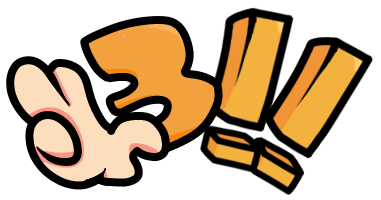
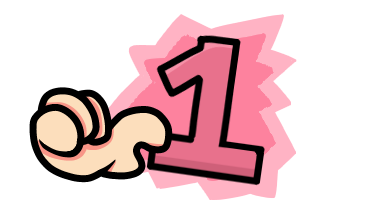
add rest of intro assets
add ratings
add libraries.xml
edit readme.md

diff --git a/readme.md b/readme.md
@@ -7,3 +7,6 @@ a rhythm game engine developed by me, Char for this game, "Char's Adventure" (Wo
 > Any assets used for it should go under `assets/cre/` for instance to add an image via the images folder put it in `assets/cre/images/` in fact, there are already included assets with this repo that is for you to reference.
 
 > This is essentially a self-contained source folder you can build by simply dropping its folder into `Your/HaxeFlixel/Project/Path/Here/source/cre`!
+
+
+Refer to [libraries.xml](libraries.xml) for what libraries are needed for this project (Please open an issue if this is innacurate.)
